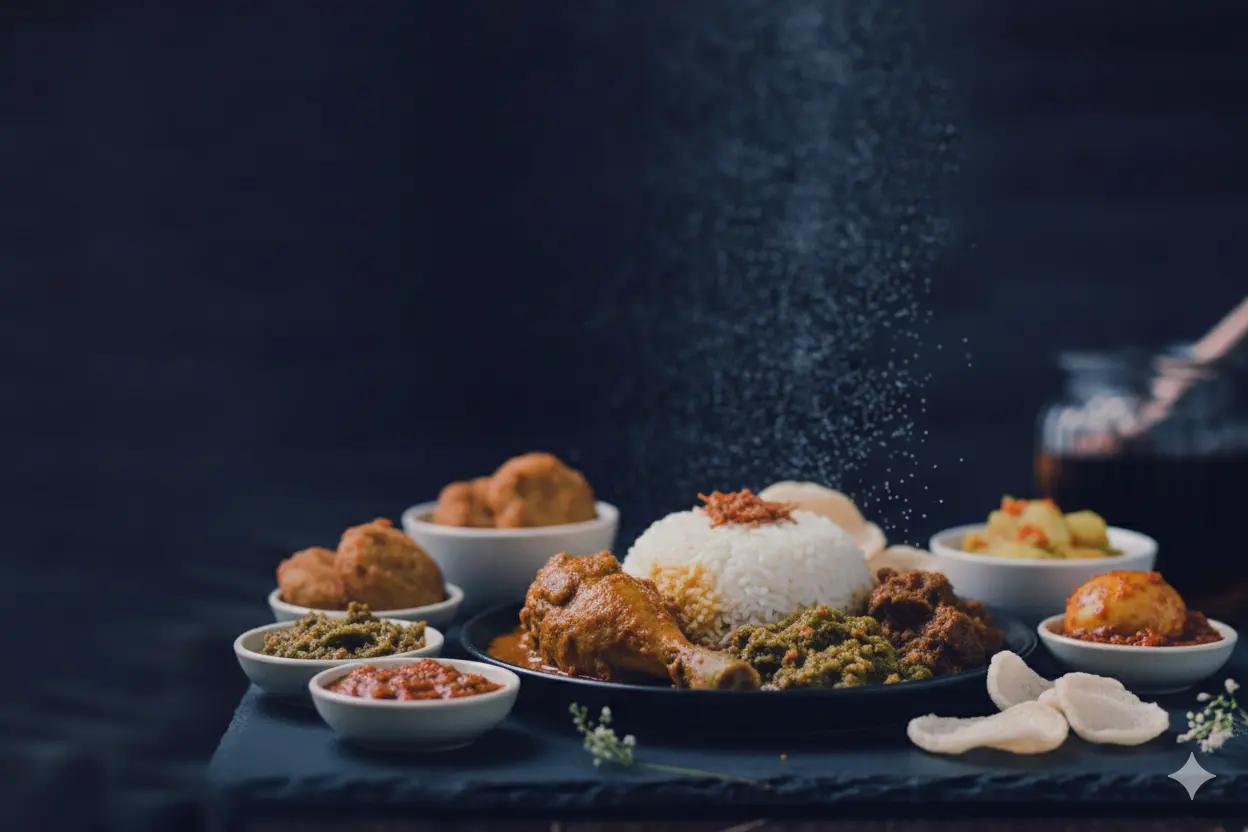
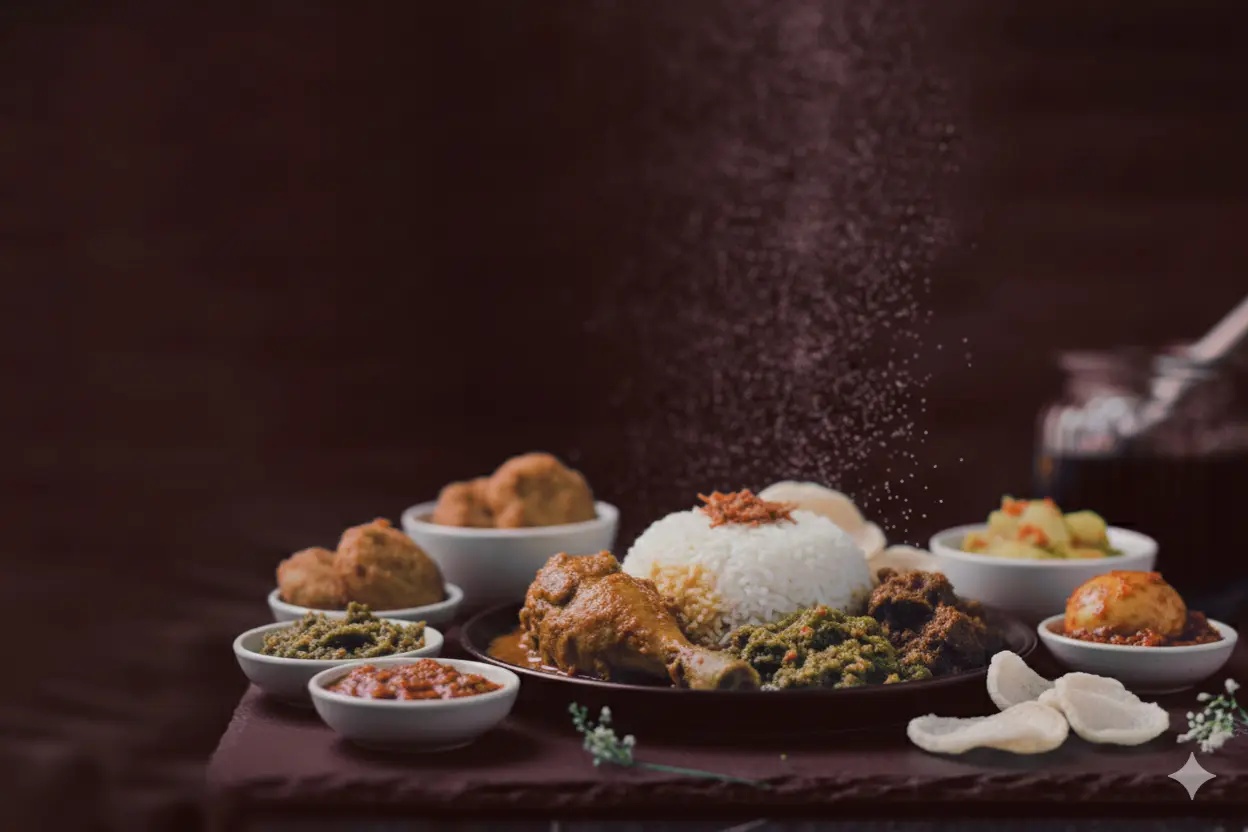
Shift theme's hue to red

diff --git a/src/styles/template.css b/src/styles/template.css
@@ -1,8 +1,8 @@
 :root {
-  --clr-gold: #c59d5f;
+  --clr-gold: #b6a45e;
   --clr-white: #ebebeb;
   --clr-black: #1e1e1e;
-  --clr-navy: #253445;
+  --clr-dark-red: #442c28;
   --page-max-width: 1280px;
 }
 
@@ -47,7 +47,7 @@ nav > button.selected {
 #content {
   flex: 1;
   overflow: auto;
-  scrollbar-color: var(--clr-gold) var(--clr-navy);
+  scrollbar-color: var(--clr-gold) var(--clr-dark-red);
 }
 
 footer {

diff --git a/src/styles/about.css b/src/styles/about.css
@@ -1,5 +1,5 @@
 .about.component {
-  background-color: var(--clr-navy);
+  background-color: var(--clr-dark-red);
 
   display: flex;
   flex-direction: column;

diff --git a/src/styles/menu.css b/src/styles/menu.css
@@ -1,5 +1,5 @@
 .menu.component {
-  background-color: var(--clr-navy);
+  background-color: var(--clr-dark-red);
   padding: 32px 16px;
 }
 
